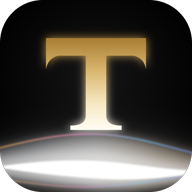
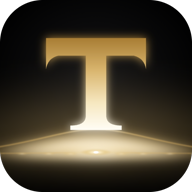
Hero light: gold dawn on a horizon, with dates drifting toward today; T mark on the same horizon (#33)
TK chose the revised B after a design review: the Siri-like rainbow ribbon
read as Apple, and the lens version read as an eye over a HIPAA product.
Light rises from one gold line; glints closer and brighter toward a hot
'today' point, and drift inward on a 12 s loop (hidden under
prefers-reduced-motion). Embedded as <object> so the SVG animation runs.

diff --git a/index.html b/index.html
@@ -796,12 +796,11 @@
 
   /* hero */
   .hero{overflow:hidden; background:radial-gradient(70% 55% at 50% 22%, #1a1a1c 0%, #050505 60%, #000 100%)}
-  .hero-ribbon{position:absolute; left:50%; top:-130px; width:min(1500px, 140vw); transform:translateX(-50%); pointer-events:none; z-index:0; opacity:0.95;
-    animation:ribbonBreath 9s ease-in-out infinite alternate}
+  .hero-ribbon{position:absolute; left:50%; top:-190px; width:min(1700px, 170vw); aspect-ratio:1300/520; transform:translateX(-50%); pointer-events:none; z-index:0; border:0}
   @keyframes ribbonBreath{0%{transform:translateX(-50%) scaleY(0.92); opacity:0.8} 100%{transform:translateX(-50%) scaleY(1.08); opacity:1}}
   @media (prefers-reduced-motion: reduce){.hero-ribbon{animation:none}}
   .hero .container{position:relative; z-index:1}
-  .hero-head{padding-top:260px}
+  .hero-head{padding-top:150px}
   .hero-kicker{color:var(--gold); font-size:1.15rem}
   .hero h1{color:#fff}
   .h1-dim{background:linear-gradient(180deg,#fff,rgba(255,255,255,0.5)); -webkit-background-clip:text; background-clip:text; color:transparent}
@@ -810,7 +809,7 @@
   .hero-stats b{color:#fff}
   .hero-stats li{border-left-color:rgba(255,255,255,0.14)}
   .hero-stats span{color:var(--ink-soft)}
-  @media (max-width:760px){.hero-head{padding-top:150px} .hero-ribbon{top:-10px; width:220vw}}
+  @media (max-width:760px){.hero-head{padding-top:80px} .hero-ribbon{top:-110px; width:220vw; height:auto}}
 
   /* readable text everywhere */
   .section-head p,.tour-copy p,.feature-card p,.fact-card p,.alert-card p,.push-note p,.faq-item p{color:var(--ink-soft)}
@@ -958,7 +957,7 @@
 
   <!-- HERO -->
   <section id="top" class="hero">
-    <img class="hero-ribbon" src="assets/brand/ribbon.svg" alt="" aria-hidden="true" />
+    <object class="hero-ribbon" type="image/svg+xml" data="assets/brand/horizon.svg" aria-hidden="true" tabindex="-1"></object>
     <div class="container">
       <div class="hero-head">
         <p class="hero-kicker">You built your book one client at a time.</p>
